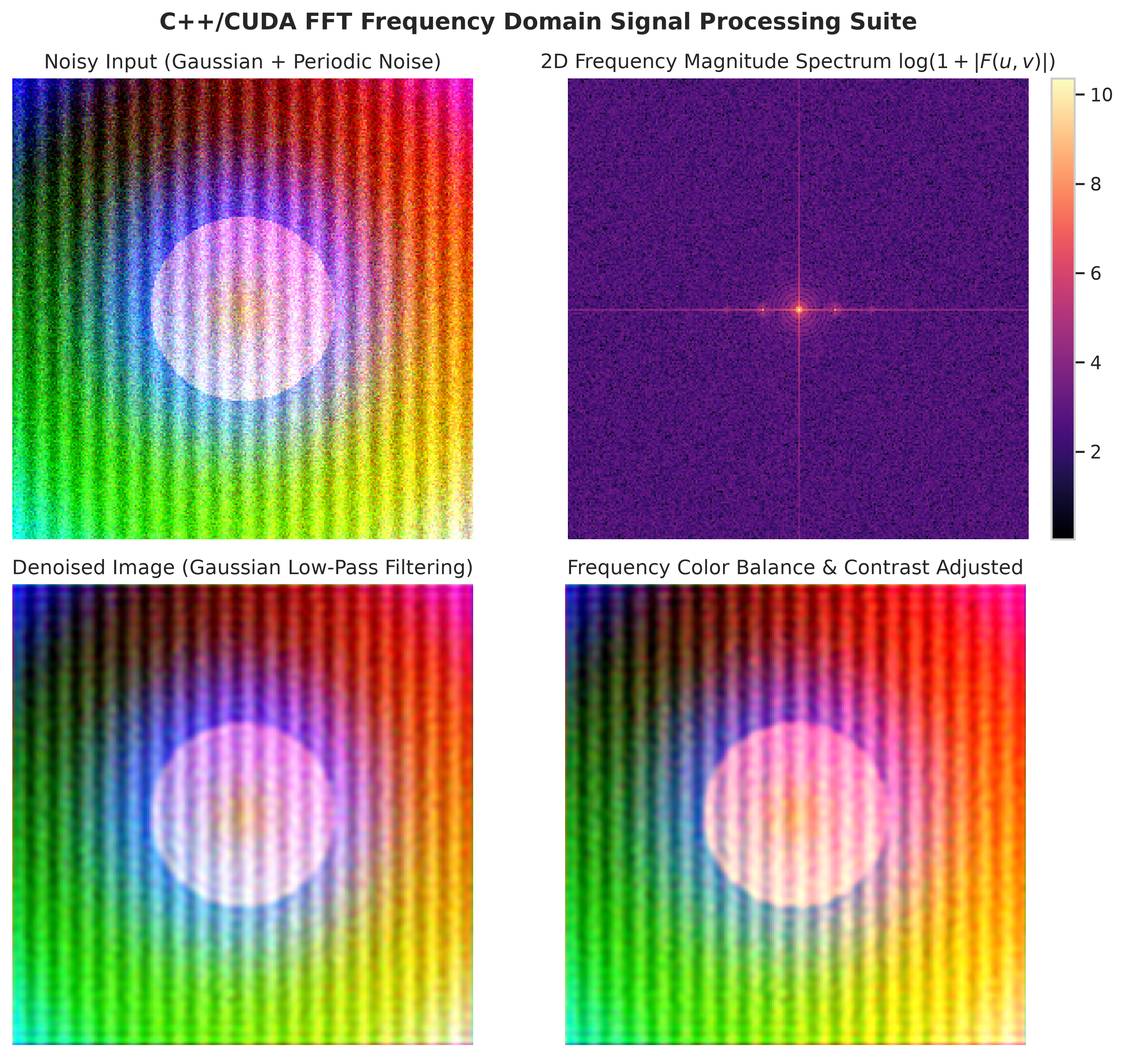
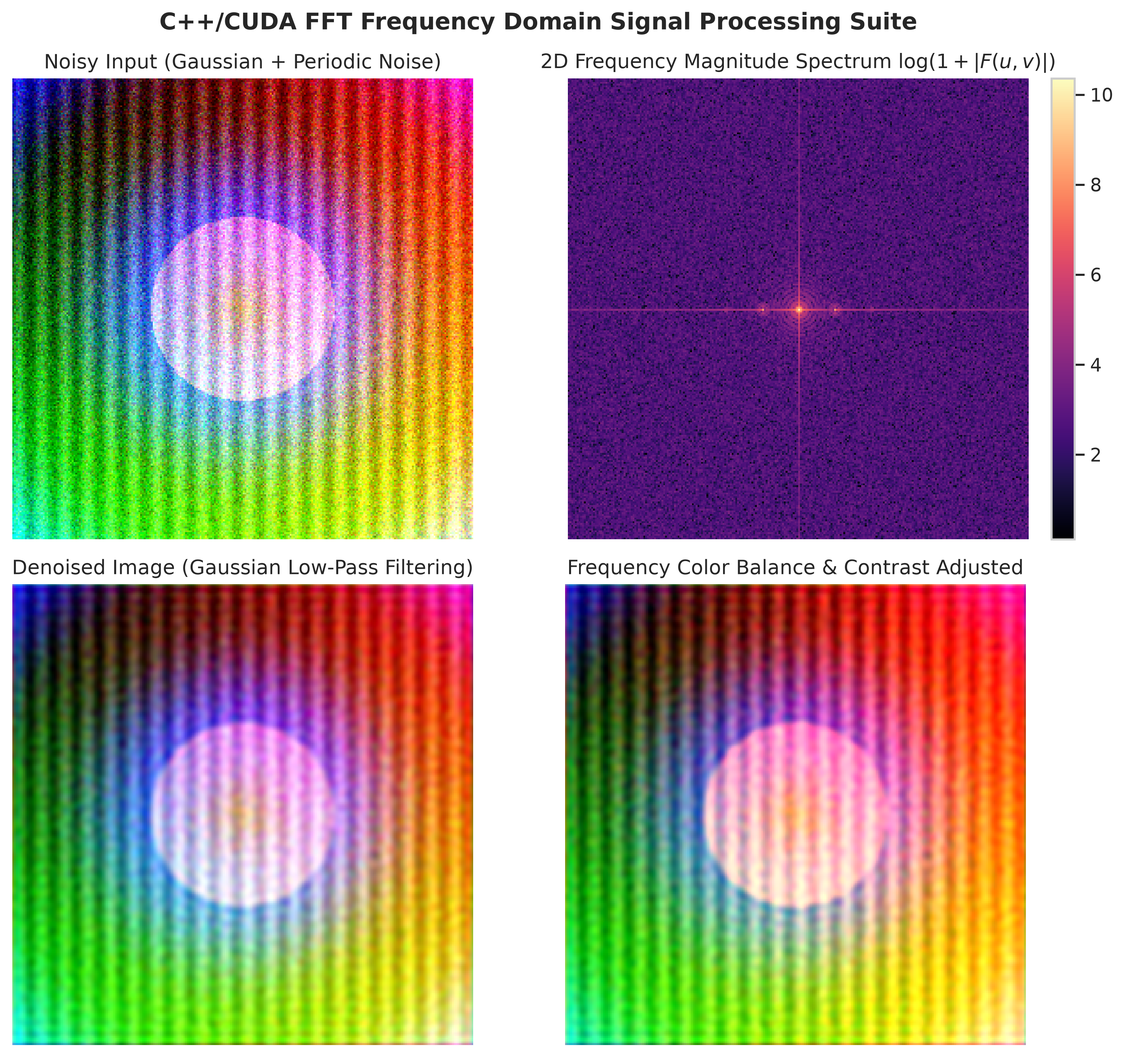
Refactor Python plotting scripts for NumPy 2.x and Pandas compatibility

diff --git a/scripts/plot_spectrum_and_denoise.py b/scripts/plot_spectrum_and_denoise.py
@@ -1,39 +1,54 @@
 #!/usr/bin/env python3
 """
 Generates magnitude spectrum visualizations, image denoising comparisons, and color adjustment figures.
+Compatible with NumPy 2.x and standard Matplotlib/Seaborn dependencies.
 """
 
-import numpy as np
+import os
+import sys
+
+import matplotlib
+matplotlib.use("Agg")  # Non-interactive backend
 import matplotlib.pyplot as plt
 import seaborn as sns
-import os
+import numpy as np
+
+# Use modern Python builtin types for NumPy 2.x compatibility
+FLOAT_TYPE = float
+COMPLEX_TYPE = complex
+INT_TYPE = int
 
 # Set aesthetic plot style
 sns.set_theme(style="whitegrid", palette="muted")
 plt.rcParams.update({'font.size': 11, 'figure.autolayout': True})
 
+def calc_ptp(arr):
+    """Calculates peak-to-peak amplitude safely without relying on deprecated np.ptp."""
+    a = np.asarray(arr, dtype=FLOAT_TYPE)
+    return np.max(a) - np.min(a)
+
 def generate_synthetic_image(width=256, height=256):
-    x = np.linspace(-1, 1, width)
-    y = np.linspace(-1, 1, height)
+    x = np.linspace(-1, 1, width, dtype=FLOAT_TYPE)
+    y = np.linspace(-1, 1, height, dtype=FLOAT_TYPE)
     xx, yy = np.meshgrid(x, y)
 
     # Base image: Gradient + Geometric Circle
     r = np.sqrt(xx**2 + yy**2)
-    circle = (r < 0.4).astype(float)
+    circle = (r < 0.4).astype(FLOAT_TYPE)
 
     red = 0.5 + 0.5 * xx + circle * 0.4
     green = 0.5 + 0.5 * yy + circle * 0.2
     blue = 0.5 + 0.5 * np.sin(5 * r)
 
     img = np.stack([red, green, blue], axis=-1)
-    img = np.clip(img, 0, 1)
+    img = np.clip(img, 0.0, 1.0)
 
     # Add Gaussian + Periodic Noise
     noise_g = np.random.normal(0, 0.12, img.shape)
     noise_p = 0.15 * np.sin(20 * np.pi * xx)
     noise_p = np.stack([noise_p]*3, axis=-1)
 
-    noisy_img = np.clip(img + noise_g + noise_p, 0, 1)
+    noisy_img = np.clip(img + noise_g + noise_p, 0.0, 1.0)
     return img, noisy_img
 
 def plot_denoising_and_spectrum():
@@ -43,7 +58,7 @@ def plot_denoising_and_spectrum():
     # 2D FFT & Shift on Gray Channel
     gray_noisy = np.mean(noisy, axis=-1)
     fft_shift = np.fft.fftshift(np.fft.fft2(gray_noisy))
-    magnitude_spectrum = np.log(1 + np.abs(fft_shift))
+    magnitude_spectrum = np.log(1.0 + np.abs(fft_shift))
 
     # Frequency Low-Pass Denoising
     h, w = gray_noisy.shape
@@ -51,25 +66,25 @@ def plot_denoising_and_spectrum():
     y, x = np.ogrid[-cy:h-cy, -cx:w-cx]
     dist = np.sqrt(x*x + y*y)
     cutoff = 40
-    mask = dist <= cutoff
+    mask = (dist <= cutoff).astype(FLOAT_TYPE)
 
     # Apply Mask & Reconstruction
     fft_filtered = fft_shift * mask
     denoised_gray = np.real(np.fft.ifft2(np.fft.ifftshift(fft_filtered)))
-    denoised_gray = np.clip(denoised_gray, 0, 1)
+    denoised_gray = np.clip(denoised_gray, 0.0, 1.0)
 
     # Reconstruct RGB
     denoised_rgb = np.zeros_like(noisy)
     for c in range(3):
         fshift = np.fft.fftshift(np.fft.fft2(noisy[:, :, c])) * mask
-        denoised_rgb[:, :, c] = np.clip(np.real(np.fft.ifft2(np.fft.ifftshift(fshift))), 0, 1)
+        denoised_rgb[:, :, c] = np.clip(np.real(np.fft.ifft2(np.fft.ifftshift(fshift))), 0.0, 1.0)
 
     # Color Adjustment (Frequency domain contrast and balance)
     color_adjusted = denoised_rgb.copy()
-    color_adjusted[:, :, 0] = np.clip(color_adjusted[:, :, 0] * 1.25, 0, 1) # Enhance Red
-    color_adjusted[:, :, 2] = np.clip(color_adjusted[:, :, 2] * 0.85, 0, 1) # Soften Blue
+    color_adjusted[:, :, 0] = np.clip(color_adjusted[:, :, 0] * 1.25, 0.0, 1.0) # Enhance Red
+    color_adjusted[:, :, 2] = np.clip(color_adjusted[:, :, 2] * 0.85, 0.0, 1.0) # Soften Blue
 
-    # Figure 1: 2D Spectrum & Side-by-Side Denoising
+    # Figure 1: 2D Spectrum & Side-by-Side Denoising (2D subplots only, no Axes3D)
     fig, axes = plt.subplots(2, 2, figsize=(10, 9))
 
     axes[0, 0].imshow(noisy)

diff --git a/scripts/plot_benchmarks.py b/scripts/plot_benchmarks.py
@@ -1,16 +1,39 @@
 #!/usr/bin/env python3
 """
 Plots performance execution benchmarks and speedup metrics comparing CPU vs Custom CUDA vs cuFFT.
+Compatible with NumPy 2.x and standard Pandas/Seaborn dependencies.
 """
 
 import json
 import os
+import sys
+
+# Suppress warnings and handle C-extension fallback for numexpr/bottleneck under NumPy 2.x
+os.environ["NUMEXPR_MAX_THREADS"] = "8"
+try:
+    import pandas as pd
+    pd.set_option("compute.use_bottleneck", False)
+    pd.set_option("compute.use_numexpr", False)
+except Exception:
+    pass
+
+import matplotlib
+matplotlib.use("Agg")  # Non-interactive backend
 import matplotlib.pyplot as plt
 import seaborn as sns
 import numpy as np
 
+# Use modern Python builtin types for NumPy 2.x compatibility
+FLOAT_TYPE = float
+INT_TYPE = int
+
 sns.set_theme(style="whitegrid", palette="deep")
 plt.rcParams.update({'font.size': 11, 'figure.autolayout': True})
+
+def calc_range(arr):
+    """Calculates peak-to-peak amplitude safely across NumPy 1.x and 2.x."""
+    a = np.asarray(arr, dtype=FLOAT_TYPE)
+    return np.max(a) - np.min(a)
 
 def plot_benchmarks():
     json_path = "fft_cuda/build/benchmark_results.json"
@@ -32,12 +55,12 @@ def plot_benchmarks():
     # Figure 1: 1D Execution Time and Speedup
     fig, (ax1, ax2) = plt.subplots(1, 2, figsize=(14, 5))
 
-    sizes_1d = [d["size_n"] for d in data_1d]
-    labels_1d = [d["size_label"].split()[0] for d in data_1d]
-    cpu_1d = [d["cpu_ms"] for d in data_1d]
-    cuda_1d = [d["custom_cuda_ms"] for d in data_1d]
-    cufft_1d = [d["cufft_ms"] for d in data_1d]
-    speedup_1d = [d["speedup_cufft"] for d in data_1d]
+    sizes_1d = [INT_TYPE(d["size_n"]) for d in data_1d]
+    labels_1d = [str(d["size_label"]).split()[0] for d in data_1d]
+    cpu_1d = [FLOAT_TYPE(d["cpu_ms"]) for d in data_1d]
+    cuda_1d = [FLOAT_TYPE(d["custom_cuda_ms"]) for d in data_1d]
+    cufft_1d = [FLOAT_TYPE(d["cufft_ms"]) for d in data_1d]
+    speedup_1d = [FLOAT_TYPE(d["speedup_cufft"]) for d in data_1d]
 
     ax1.plot(labels_1d, cpu_1d, 'o-', label="CPU (Cooley-Tukey)", color="#d62728", linewidth=2)
     ax1.plot(labels_1d, cuda_1d, 's-', label="Custom CUDA FFT", color="#1f77b4", linewidth=2)
@@ -50,7 +73,7 @@ def plot_benchmarks():
     ax1.legend()
 
     ax2.plot(labels_1d, speedup_1d, 'D-', color="#9467bd", linewidth=2.5, label="cuFFT vs CPU Speedup")
-    ax2.plot(labels_1d, [d["speedup_custom"] for d in data_1d], 'o--', color="#1f77b4", linewidth=2, label="Custom CUDA vs CPU Speedup")
+    ax2.plot(labels_1d, [FLOAT_TYPE(d["speedup_custom"]) for d in data_1d], 'o--', color="#1f77b4", linewidth=2, label="Custom CUDA vs CPU Speedup")
     ax2.set_xlabel("1D Signal Array Size N ($2^{8}$ to $2^{24}$)")
     ax2.set_ylabel("Speedup Factor ($T_{CPU} / T_{GPU}$)")
     ax2.set_title("1D FFT GPU Acceleration Factor")
@@ -65,11 +88,11 @@ def plot_benchmarks():
     # Figure 2: 2D Execution Time and Speedup
     fig, (ax1, ax2) = plt.subplots(1, 2, figsize=(14, 5))
 
-    labels_2d = [d["size_label"] for d in data_2d]
-    cpu_2d = [d["cpu_ms"] for d in data_2d]
-    cuda_2d = [d["custom_cuda_ms"] for d in data_2d]
-    cufft_2d = [d["cufft_ms"] for d in data_2d]
-    speedup_2d = [d["speedup_cufft"] for d in data_2d]
+    labels_2d = [str(d["size_label"]) for d in data_2d]
+    cpu_2d = [FLOAT_TYPE(d["cpu_ms"]) for d in data_2d]
+    cuda_2d = [FLOAT_TYPE(d["custom_cuda_ms"]) for d in data_2d]
+    cufft_2d = [FLOAT_TYPE(d["cufft_ms"]) for d in data_2d]
+    speedup_2d = [FLOAT_TYPE(d["speedup_cufft"]) for d in data_2d]
 
     ax1.plot(labels_2d, cpu_2d, 'o-', label="CPU 2D FFT", color="#d62728", linewidth=2)
     ax1.plot(labels_2d, cuda_2d, 's-', label="Custom CUDA 2D FFT", color="#1f77b4", linewidth=2)

diff --git a/fft_cuda/include/fft_cpu.h b/fft_cuda/include/fft_cpu.h
@@ -1,6 +1,5 @@
-#ifndef FFT_CPU_H
-#ifndef FFT_TYPES_H
-#define FFT_TYPES_H
+#ifndef CUDA_FFT_CPU_H
+#define CUDA_FFT_CPU_H
 
 #include <complex>
 #include <vector>
@@ -22,5 +21,4 @@ void fftshift_2d(std::vector<Complex>& data, int width, int height);
 
 } // namespace cuda_fft
 
-#endif // FFT_TYPES_H
-#endif // FFT_CPU_H
+#endif // CUDA_FFT_CPU_H

diff --git a/fft_cuda/src/fft_cpu.cpp b/fft_cuda/src/fft_cpu.cpp
@@ -1,7 +1,6 @@
 #include "fft_cpu.h"
 #include <algorithm>
 #include <stdexcept>
-#include <numbers>
 
 namespace cuda_fft {
 
